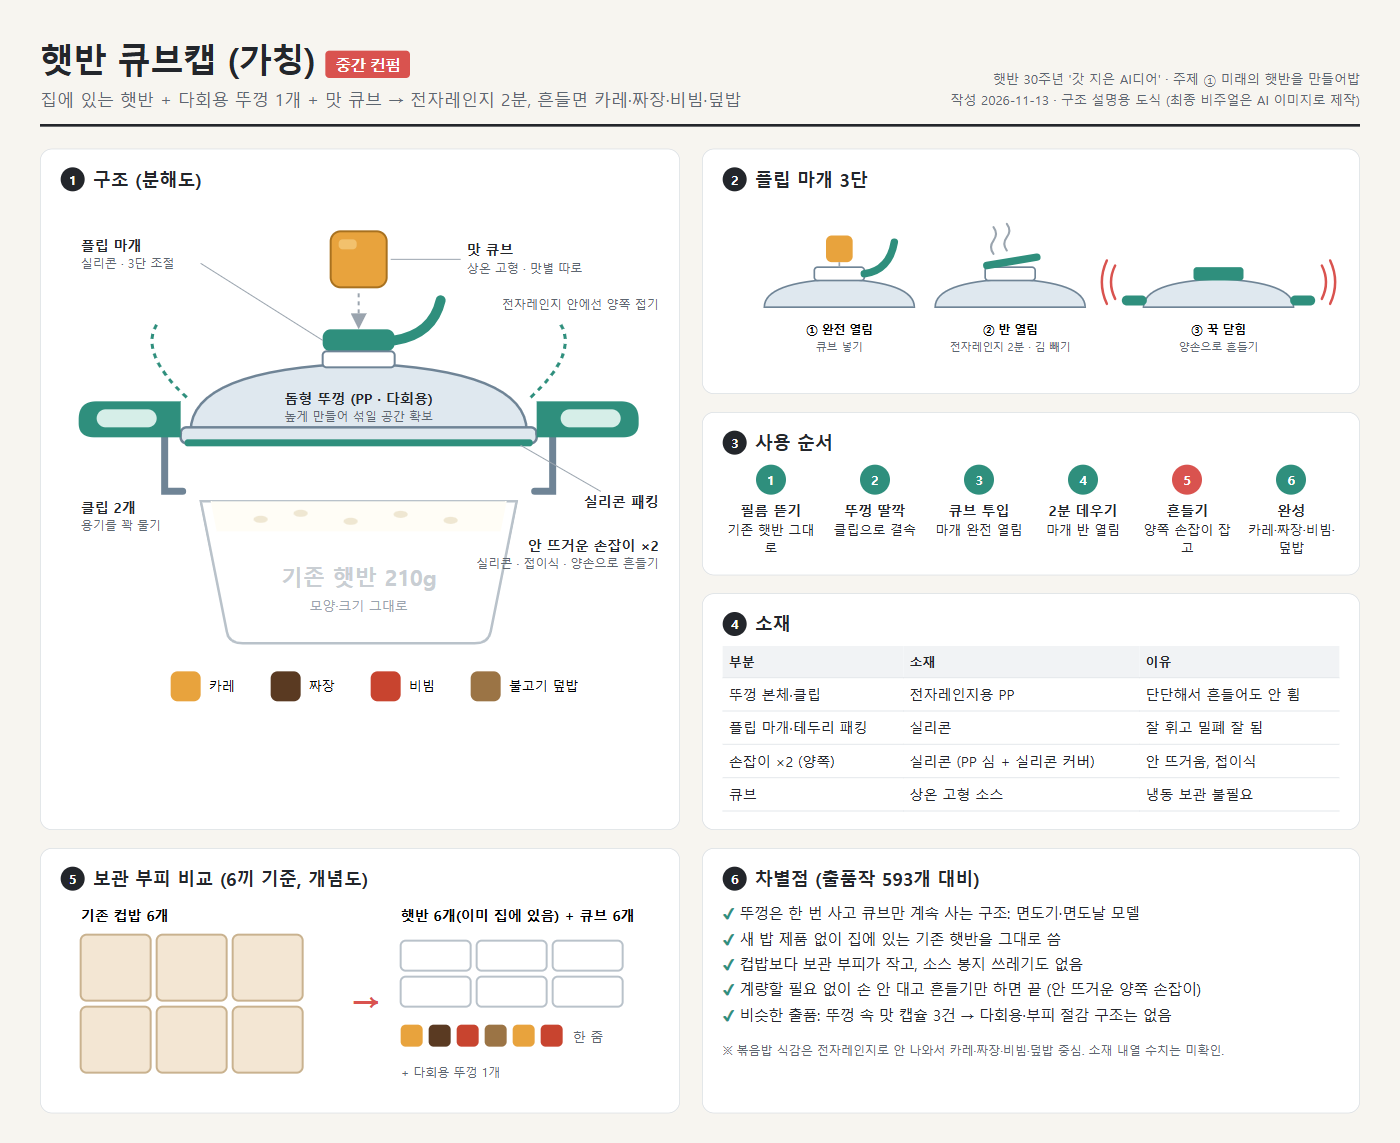
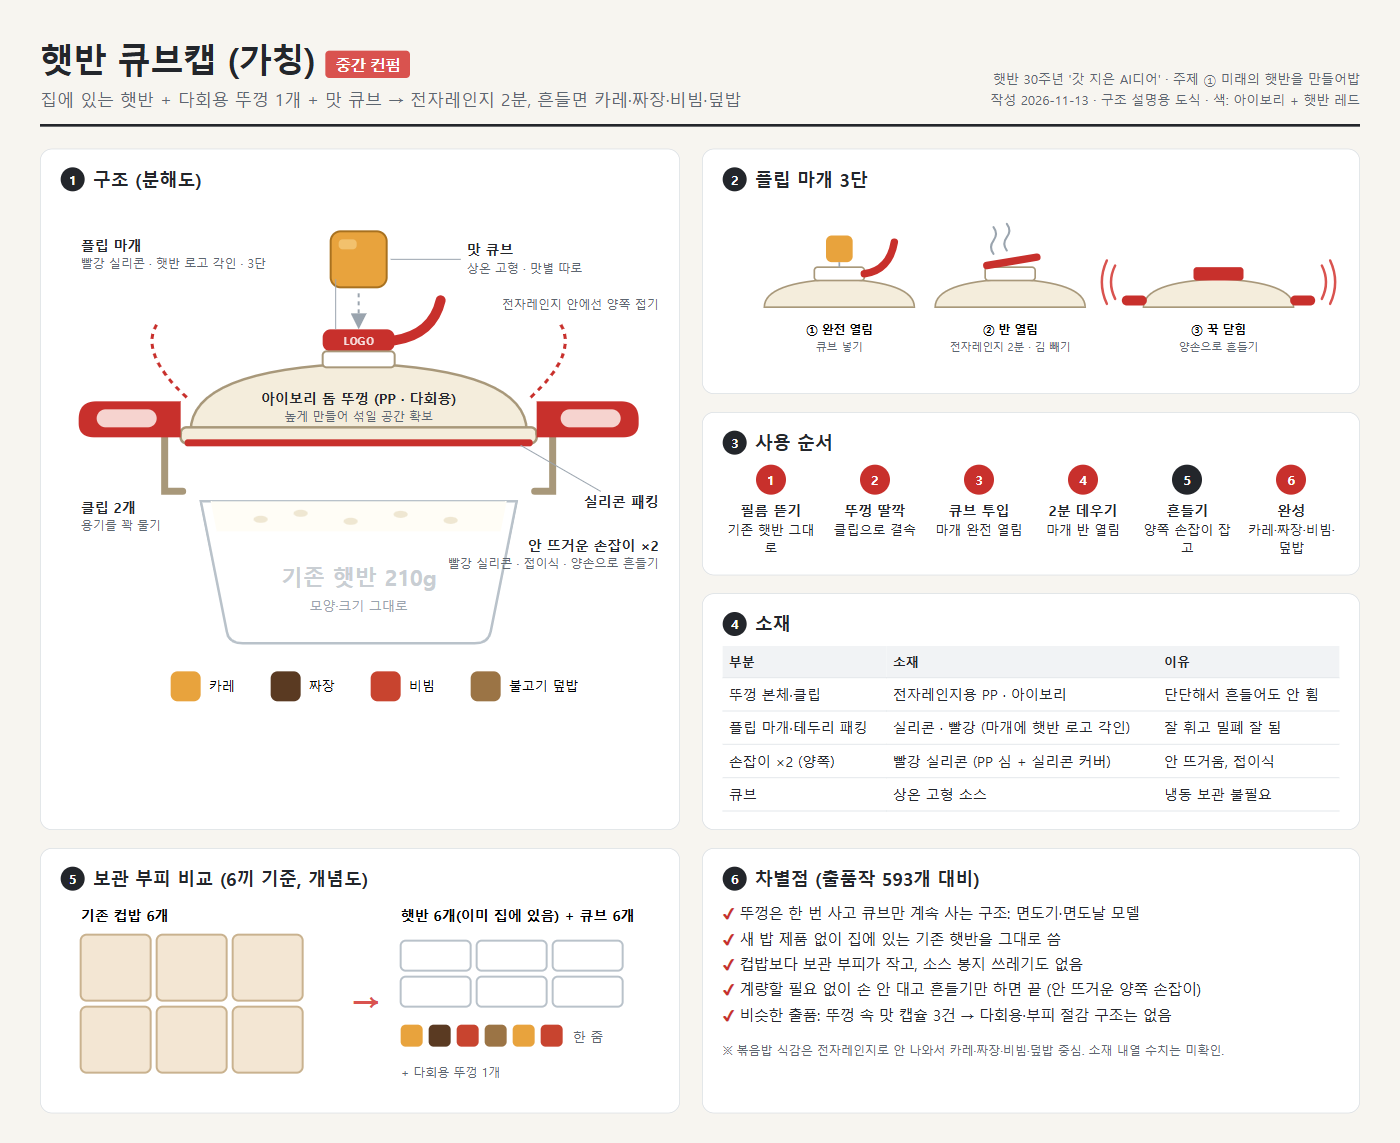
Auto-sync: 2026-11-13 15:29:53

diff --git a/햇반공모전/햇반큐브캡_중간컨펌.html b/햇반공모전/햇반큐브캡_중간컨펌.html
@@ -1,7 +1,7 @@
 <!doctype html>
 <html lang="ko"><head><meta charset="utf-8"><title>햇반 큐브캡 중간 컨펌</title>
 <style>
-:root{--ink:#23262b;--sub:#5d6670;--line:#d7dce1;--pp:#dfe8ef;--ppS:#6f8496;--si:#2f8f7d;--siL:#d6eee8;--rice:#fffdf6;--bg:#f7f5f0;--acc:#d9534f}
+:root{--ink:#23262b;--sub:#5d6670;--line:#d7dce1;--pp:#f4eddc;--ppS:#a8987a;--si:#c8302c;--siL:#f6d3cf;--rice:#fffdf6;--bg:#f7f5f0;--acc:#d9534f}
 *{box-sizing:border-box;margin:0;padding:0}
 body{width:1400px;background:var(--bg);font-family:"Malgun Gothic","Apple SD Gothic Neo",sans-serif;color:var(--ink);padding:36px 40px 30px}
 header{display:flex;justify-content:space-between;align-items:flex-end;border-bottom:3px solid var(--ink);padding-bottom:14px;margin-bottom:22px}
@@ -17,7 +17,7 @@ svg text{font-family:"Malgun Gothic",sans-serif}
 .steps{display:grid;grid-template-columns:repeat(6,1fr);gap:8px}
 .step{text-align:center;font-size:13px;line-height:1.35}
 .step .n{width:30px;height:30px;border-radius:50%;background:var(--si);color:#fff;font-weight:700;display:flex;align-items:center;justify-content:center;margin:0 auto 6px}
-.step.hl .n{background:var(--acc)}
+.step.hl .n{background:var(--ink)}
 .step b{display:block;font-size:14px;margin-bottom:2px}
 table{width:100%;border-collapse:collapse;font-size:14px}
 th,td{border-bottom:1px solid var(--line);padding:7px 6px;text-align:left}
@@ -33,7 +33,7 @@ ul.pt li:before{content:"✔ ";color:var(--si);font-weight:700}
     <h1>햇반 큐브캡 (가칭)<small>중간 컨펌</small></h1>
     <div class="tag">집에 있는 햇반 + 다회용 뚜껑 1개 + 맛 큐브 → 전자레인지 2분, 흔들면 카레·짜장·비빔·덮밥</div>
   </div>
-  <div class="meta">햇반 30주년 '갓 지은 AI디어' · 주제 ① 미래의 햇반을 만들어밥<br>작성 2026-11-13 · 구조 설명용 도식 (최종 비주얼은 AI 이미지로 제작)</div>
+  <div class="meta">햇반 30주년 '갓 지은 AI디어' · 주제 ① 미래의 햇반을 만들어밥<br>작성 2026-11-13 · 구조 설명용 도식 · 색: 아이보리 + 햇반 레드</div>
 </header>
 
 <div class="grid">
@@ -52,7 +52,7 @@ ul.pt li:before{content:"✔ ";color:var(--si);font-weight:700}
       <line x1="298" y1="92" x2="298" y2="120" stroke="#9aa4ae" stroke-width="2" stroke-dasharray="4 4" marker-end="url(#ar)"/>
       <!-- flip cap (open) -->
       <g>
-        <rect x="262" y="128" width="72" height="22" rx="8" fill="var(--si)"/>
+        <rect x="262" y="128" width="72" height="22" rx="8" fill="var(--si)"/><text x="298" y="144" text-anchor="middle" font-size="11" font-weight="700" fill="#fff" opacity=".85">LOGO</text>
         <path d="M334 139 q38 -6 46 -40" stroke="var(--si)" stroke-width="10" fill="none" stroke-linecap="round"/>
       </g>
       <!-- lid dome -->
@@ -85,12 +85,12 @@ ul.pt li:before{content:"✔ ";color:var(--si);font-weight:700}
       <!-- labels -->
       <g font-size="14" fill="var(--ink)">
         <line x1="330" y1="58" x2="400" y2="58" stroke="#9aa4ae"/><text x="406" y="54" font-weight="700">맛 큐브</text><text x="406" y="72" font-size="12" fill="var(--sub)">상온 고형 · 맛별 따로</text>
-        <line x1="262" y1="139" x2="140" y2="62" stroke="#9aa4ae"/><text x="20" y="50" font-weight="700">플립 마개</text><text x="20" y="67" font-size="12" fill="var(--sub)">실리콘 · 3단 조절</text>
-        <text x="298" y="203" text-anchor="middle" font-weight="700">돔형 뚜껑 (PP · 다회용)</text><text x="298" y="220" text-anchor="middle" font-size="12" fill="var(--sub)">높게 만들어 섞일 공간 확보</text>
+        <line x1="275" y1="128" x2="275" y2="78" stroke="#9aa4ae"/><text x="20" y="50" font-weight="700">플립 마개</text><text x="20" y="67" font-size="12" fill="var(--sub)">빨강 실리콘 · 햇반 로고 각인 · 3단</text>
+        <text x="298" y="203" text-anchor="middle" font-weight="700">아이보리 돔 뚜껑 (PP · 다회용)</text><text x="298" y="220" text-anchor="middle" font-size="12" fill="var(--sub)">높게 만들어 섞일 공간 확보</text>
         <text x="20" y="312" font-weight="700">클립 2개</text><text x="20" y="329" font-size="12" fill="var(--sub)">용기를 꽉 물기</text>
         <line x1="460" y1="244" x2="540" y2="290" stroke="#9aa4ae"/><text x="598" y="306" text-anchor="end" font-weight="700">실리콘 패킹</text>
         <text x="500" y="262" font-weight="700" fill="var(--si)"></text>
-        <text x="598" y="350" text-anchor="end" font-weight="700">안 뜨거운 손잡이 ×2</text><text x="598" y="367" text-anchor="end" font-size="12" fill="var(--sub)">실리콘 · 접이식 · 양손으로 흔들기</text>
+        <text x="598" y="350" text-anchor="end" font-weight="700">안 뜨거운 손잡이 ×2</text><text x="598" y="367" text-anchor="end" font-size="12" fill="var(--sub)">빨강 실리콘 · 접이식 · 양손으로 흔들기</text>
       </g>
       <!-- cube lineup -->
       <g transform="translate(110,470)" font-size="13">
@@ -156,9 +156,9 @@ ul.pt li:before{content:"✔ ";color:var(--si);font-weight:700}
       <h2><b>4</b>소재</h2>
       <table>
         <tr><th>부분</th><th>소재</th><th>이유</th></tr>
-        <tr><td>뚜껑 본체·클립</td><td>전자레인지용 PP</td><td>단단해서 흔들어도 안 휨</td></tr>
-        <tr><td>플립 마개·테두리 패킹</td><td>실리콘</td><td>잘 휘고 밀폐 잘 됨</td></tr>
-        <tr><td>손잡이 ×2 (양쪽)</td><td>실리콘 (PP 심 + 실리콘 커버)</td><td>안 뜨거움, 접이식</td></tr>
+        <tr><td>뚜껑 본체·클립</td><td>전자레인지용 PP · 아이보리</td><td>단단해서 흔들어도 안 휨</td></tr>
+        <tr><td>플립 마개·테두리 패킹</td><td>실리콘 · 빨강 (마개에 햇반 로고 각인)</td><td>잘 휘고 밀폐 잘 됨</td></tr>
+        <tr><td>손잡이 ×2 (양쪽)</td><td>빨강 실리콘 (PP 심 + 실리콘 커버)</td><td>안 뜨거움, 접이식</td></tr>
         <tr><td>큐브</td><td>상온 고형 소스</td><td>냉동 보관 불필요</td></tr>
       </table>
     </div>

diff --git a/햇반공모전/햇반출품1.md b/햇반공모전/햇반출품1.md
@@ -63,17 +63,18 @@
 | 4 | 플립 마개 3단 사용 | - | ① 완전 열림(큐브 넣기) ② 반 열림(전자레인지·김 빼기) ③ 꾹 닫힘(흔들기) | 마개 하나로 투입구·증기 배출·밀폐 해결 |
 | 5 | 소재 분리 | 전부 실리콘 | 본체 PP + 마개·패킹·손잡이 실리콘 | 전부 실리콘이면 흔들 때 휘어서 클립이 빠질 수 있음 |
 | 6 | 손잡이 개수 | 1개 | **양쪽 2개** (접이식) | 양손으로 잡고 흔들어야 함 |
+| 7 | 색·모양 | 반투명 회색 뚜껑 + 민트 마개·손잡이, 큰 돔 | **아이보리 뚜껑 + 빨강 마개·손잡이**, 햇반 테두리를 따라가는 **낮은 돔**, 마개에 **햇반 로고 각인** | 첫 AI 이미지가 일반 반찬통처럼 나옴 → 햇반 로고 색(빨강·아이보리)으로 브랜드가 보이게 |
 
 ## 4. 최종 구성 (현재 기준)
 
 | 부분 | 내용 | 소재 |
 |---|---|---|
 | 기존 햇반 | 모양·크기 그대로 (210g) | - |
-| 뚜껑 본체 | 돔형(높게), 다회용, 햇반 크기에 딱 맞음 | 전자레인지용 PP |
-| 클립 | 양옆 2개, 용기 테두리를 꽉 물기 | PP |
+| 뚜껑 본체 | **아이보리**, 햇반 테두리 모양을 따라가는 낮은 돔, 다회용 | 전자레인지용 PP |
+| 클립 | 양옆 2개, 용기 테두리를 꽉 물기 (아이보리) | PP |
 | 테두리 패킹 | 밀폐용 | 실리콘 |
-| 플립 마개 | 가운데, 3단 조절 (완전 열림 / 반 열림 / 닫힘) | 실리콘 |
-| 손잡이 | **양쪽 2개**, 안 뜨거움, 전자레인지 안에선 접어둠 | PP 심 + 실리콘 커버 |
+| 플립 마개 | 가운데, **빨강**, 위에 **햇반 로고 각인**, 3단 조절 (완전 열림 / 반 열림 / 닫힘) | 실리콘 |
+| 손잡이 | **양쪽 2개**, **빨강**, 안 뜨거움, 전자레인지 안에선 접어둠 | PP 심 + 실리콘 커버 |
 | 맛 큐브 | 상온 고형, 맛별 따로 판매 (카레·짜장·비빔·불고기 덮밥 등) | 고형 소스 |
 
 ## 5. 사용 순서
